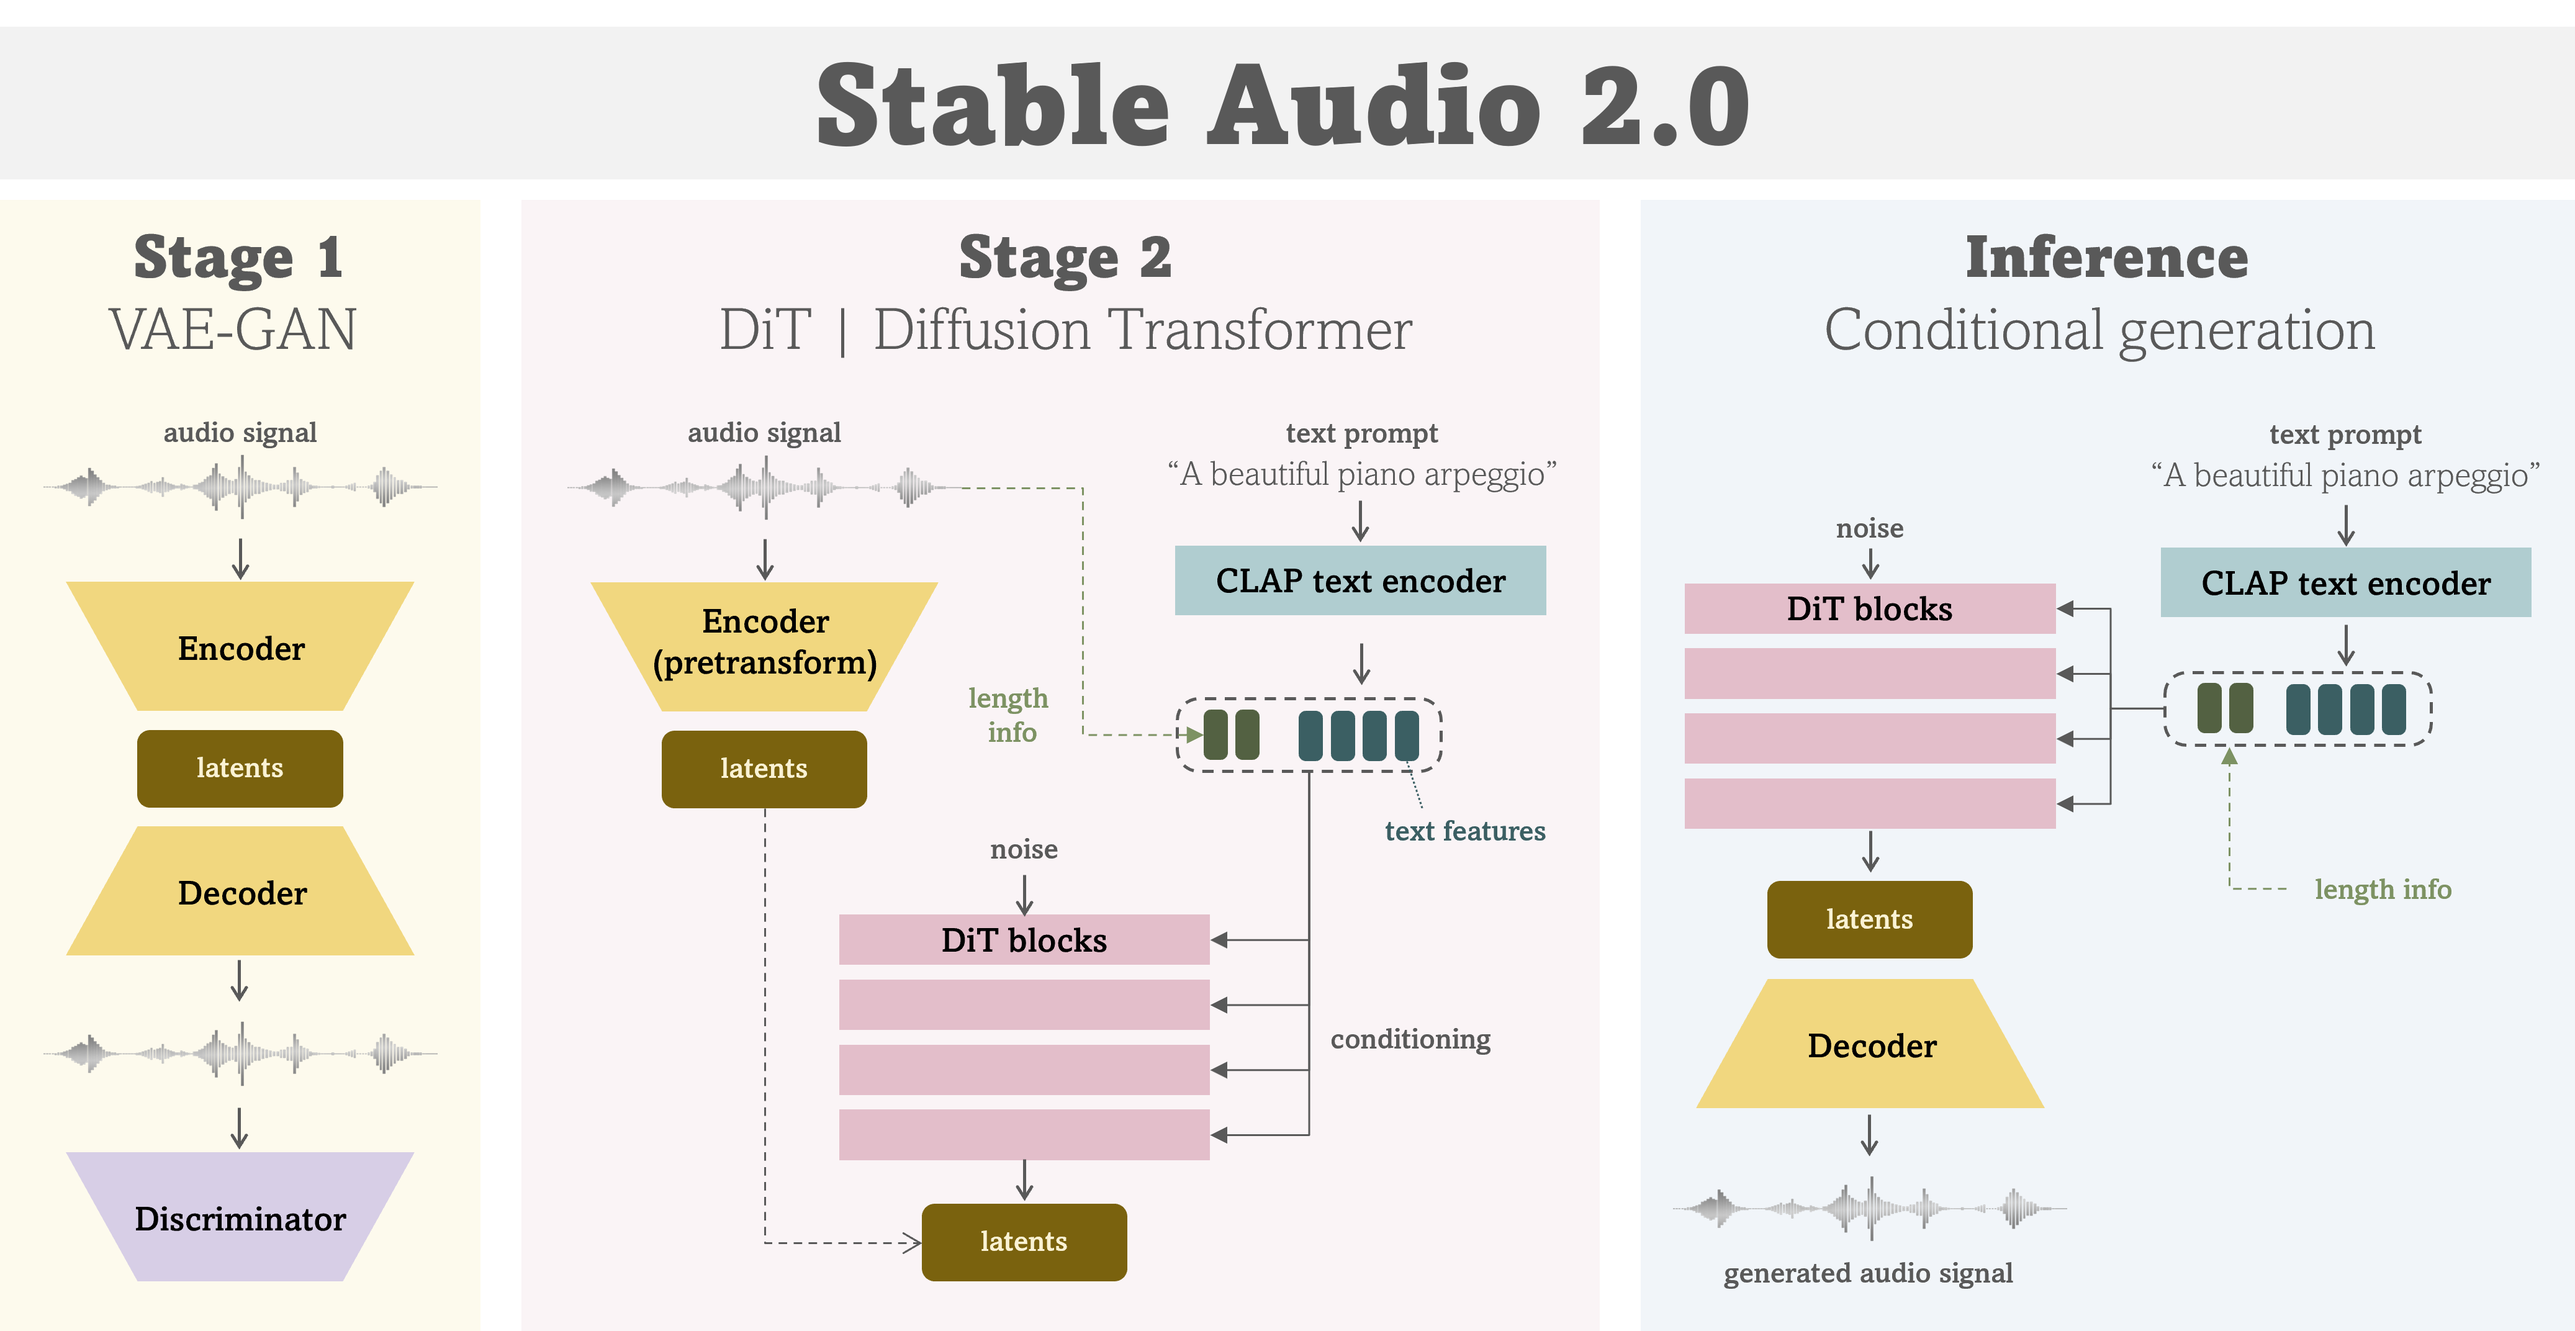
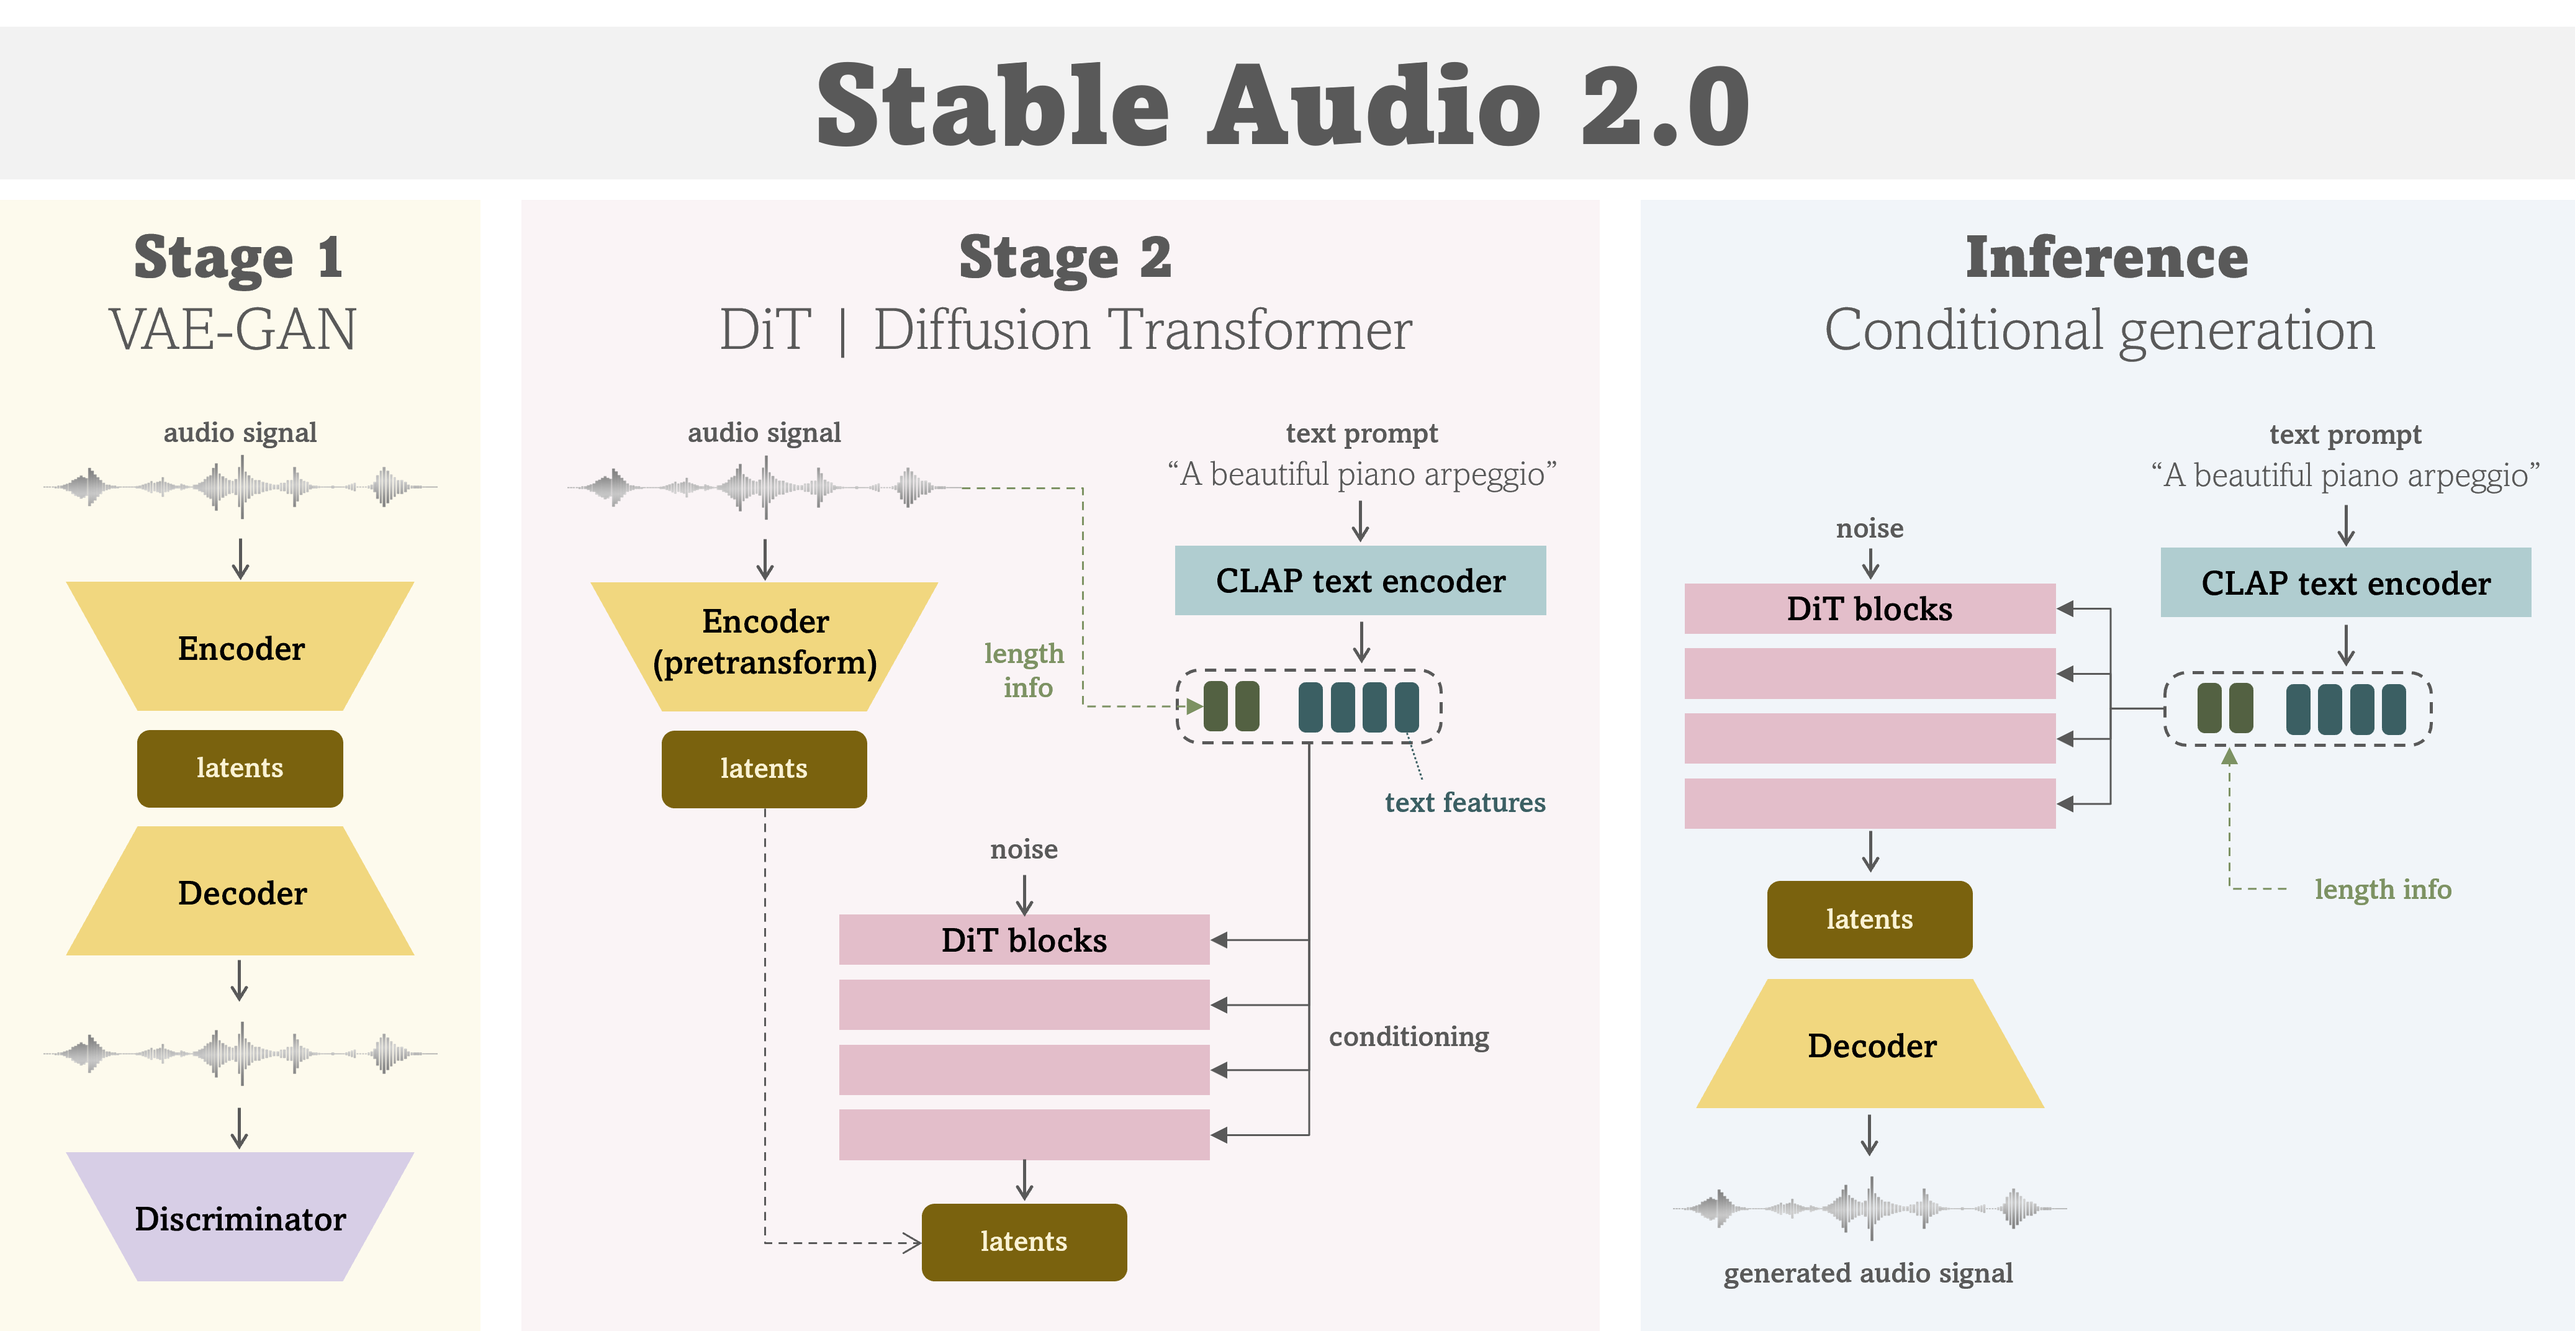
update docs

Changed region(s): [[0.4354, 0.5, 0.5909, 0.6562], [0.3732, 0.4688, 0.4043, 0.5625], [0.5287, 0.75, 0.5598, 0.8125]]

diff --git a/docs/diffusion.md b/docs/diffusion.md
@@ -1,0 +1,153 @@
+# Diffusion
+
+Diffusion models learn to denoise data
+
+# Model configs
+The model config file for a diffusion model should set the `model_type` to `diffusion_cond` if the model uses conditioning, or `diffusion_uncond` if it does not, and the `model` object should have the following properties:
+
+- `diffusion`
+    - The configuration for the diffusion model itself. See below for more information on the diffusion model config
+- `pretransform`
+    - The configuration of the diffusion model's [pretransform](pretransforms.md), such as an autoencoder for latent diffusion.
+    - Optional
+- `conditioning`
+    - The configuration of the various [conditioning](conditioning.md) modules for the diffusion model
+    - Only required for `diffusion_cond`
+- `io_channels`
+    - The base number of input/output channels for the diffusion model
+    - Used by inference scripts to determine the shape of the noise to generate for the diffusion model
+
+# Diffusion configs
+- `type`
+    - The underlying model type for the transformer
+    - For conditioned diffusion models, be one of `dit` ([Diffusion Transformer](#diffusion-transformers-dit)), `DAU1d` ([Dance Diffusion U-Net](#dance-diffusion-u-net)), or `adp_cfg_1d` ([audio-diffusion-pytorch U-Net](#audio-diffusion-pytorch-u-net-adp))
+    - Unconditioned diffusion models can also use `adp_1d`
+- `cross_attention_cond_ids`
+    - Conditioner ids for conditioning information to be used as cross-attention input
+    - If multiple ids are specified, the conditioning tensors will be concatenated along the sequence dimension
+- `global_cond_ids`
+    - Conditioner ids for conditioning information to be used as global conditioning input
+    - If multiple ids are specified, the conditioning tensors will be concatenated along the channel dimension
+- `prepend_cond_ids`
+    - Conditioner ids for conditioning information to be prepended to the model input
+    - If multiple ids are specified, the conditioning tensors will be concatenated along the sequence dimension
+    - Only works with diffusion transformer models
+- `input_concat_ids`
+    - Conditioner ids for conditioning information to be concatenated to the model input
+    - If multiple ids are specified, the conditioning tensors will be concatenated along the channel dimension
+    - If the conditioning tensors are not the same length as the model input, they will be interpolated along the sequence dimension to be the same length.
+        - The interpolation algorithm is model-dependent, but usually uses nearest-neighbor resampling.
+- `config`
+    - The configuration for the model backbone itself
+    - Model-dependent
+
+# Training configs
+The `training` config in the diffusion model config file should have the following properties:
+
+- `learning_rate`
+    - The learning rate to use during training
+    - Defaults to constant learning rate, can be overridden with `optimizer_configs`
+- `use_ema`
+    - If true, a copy of the model weights is maintained during training and updated as an exponential moving average of the trained model's weights. 
+    - Optional. Default: `true`
+- `log_loss_info`
+    - If true, additional diffusion loss info will be gathered across all GPUs and displayed during training
+    - Optional. Default: `false`
+- `loss_configs`
+    - Configurations for the loss function calculation
+    - Optional
+- `optimizer_configs`
+    - Configuration for optimizers and schedulers
+    - Optional, overrides `learning_rate`
+- `demo`
+    - Configuration for the demos during training, including conditioning information
+
+## Example config
+```json
+"training": {
+    "use_ema": true,
+    "log_loss_info": false,
+    "optimizer_configs": {
+        "diffusion": {
+            "optimizer": {
+                "type": "AdamW",
+                "config": {
+                    "lr": 5e-5,
+                    "betas": [0.9, 0.999],
+                    "weight_decay": 1e-3
+                }
+            },
+            "scheduler": {
+                "type": "InverseLR",
+                "config": {
+                    "inv_gamma": 1000000,
+                    "power": 0.5,
+                    "warmup": 0.99
+                }
+            }
+        }
+    },
+    "demo": { ... }
+}
+```
+
+# Demo configs
+The `demo` config in the diffusion model training config should have the following properties:
+- `demo_every`
+    - How many training steps between demos
+- `demo_steps`
+    - Number of diffusion timesteps to run for the demos
+- `num_demos`
+    - This is the number of examples to generate in each demo
+- `demo_cond`
+    - For conditioned diffusion models, this is the conditioning metadata to provide to each example, provided as a list
+    - NOTE: List must be the same length as `num_demos`
+- `demo_cfg_scales`
+    - For conditioned diffusion models, this provides a list of classifier-free guidance (CFG) scales to render during the demos. This can be helpful to get an idea of how the model responds to different conditioning strengths as training continues.
+
+## Example config
+```json
+"demo": {
+    "demo_every": 2000,
+    "demo_steps": 250,
+    "num_demos": 4,
+    "demo_cond": [
+        {"prompt": "A beautiful piano arpeggio", "seconds_start": 0, "seconds_total": 80},
+        {"prompt": "A tropical house track with upbeat melodies, a driving bassline, and cheery vibes", "seconds_start": 0, "seconds_total": 250},
+        {"prompt": "A cool 80s glam rock song with driving drums and distorted guitars", "seconds_start": 0, "seconds_total": 180},
+        {"prompt": "A grand orchestral arrangement", "seconds_start": 0, "seconds_total": 190}
+    ],
+    "demo_cfg_scales": [3, 6, 9]
+}
+```
+
+# Model types
+
+A variety of different model types can be used as the underlying backbone for a diffusion model. At the moment, this includes variants of U-Net and Transformer models.
+
+## Diffusion Transformers (DiT)
+
+Transformers tend to consistently outperform U-Nets in terms of model quality, but are much more memory- and compute-intensive and work best on shorter sequences such as latent encodings of audio.
+
+### Continuous Transformer
+
+This is our custom implementation of a transformer model, based on the `x-transformers` implementation, but with efficiency improvements such as fused QKV layers, and Flash Attention 2 support.
+
+### `x-transformers`
+
+This model type uses the `ContinuousTransformerWrapper` class from the https://github.com/lucidrains/x-transformers repository as the diffusion transformer backbone.
+
+`x-transformers` is a great baseline transformer implementation with lots of options for various experimental settings.
+It's great for testing out experimental features without implementing them yourself, but the implementations might not be fully optimized, and breaking changes may be introduced without much warning. 
+
+## Diffusion U-Net
+
+U-Nets use a hierarchical architecture to gradually downsample the input data before more heavy processing is performed, then upsample the data again, using skip connections to pass data across the downsampling "valley" (the "U" in the name) to the upsampling layer at the same resolution. 
+
+### audio-diffusion-pytorch U-Net (ADP)
+
+This model type uses a modified implementation of the `UNetCFG1D` class from version 0.0.94 of the `https://github.com/archinetai/audio-diffusion-pytorch` repo, with added Flash Attention support.
+
+### Dance Diffusion U-Net
+
+This is a reimplementation of the U-Net used in [Dance Diffusion](https://github.com/Harmonai-org/sample-generator). It has minimal conditioning support, only really supporting global conditioning. Mostly used for unconditional diffusion models.

diff --git a/README.md b/README.md
@@ -133,7 +133,7 @@ The model config file defines all of the information needed to load a model for 
 The following properties are defined in the top level of the model configuration:
 
 - `model_type`
-  - The type of model being defined, currently limited to one of `"autoencoder", "diffusion_uncond", "diffusion_cond", "diffusion_cond_inpaint", "diffusion_autoencoder"`.
+  - The type of model being defined, currently limited to one of `"autoencoder", "diffusion_uncond", "diffusion_cond", "diffusion_cond_inpaint", "diffusion_autoencoder", "lm"`.
 - `sample_size`
   - The length of the audio provided to the model during training, in samples. For diffusion models, this is also the raw audio sample length used for inference.
 - `sample_rate`
@@ -214,9 +214,9 @@ from the [LAION CLAP repository](https://github.com/LAION-AI/CLAP?tab=readme-ov-
 
 Since ***Stable Audio*** uses text prompts as condition for music generation, you have to prepare them as metadata in addition to audio data.
 
-When preparing a dataset in a local environment, I support the use of metadata in JSON format as follows.
+When using a dataset in a local environment, I support the use of metadata in JSON format as follows.
 
-1. You can include any information as metadata in a JSON file, but you must always include the text data called `prompt` required for training of Stable Audio.
+1. You can include any information as metadata in a JSON file, but you must always include the text data named `prompt` required for training of Stable Audio.
 
 = music_2.json =
 ```
@@ -237,13 +237,13 @@ When preparing a dataset in a local environment, I support the use of metadata i
     └── ...
 ```
 
-## Stage 1 : VAE (Compression model)
+## Stage 1 : VAE-GAN (compression model)
 
 ### Training
 
-As the 1st stage of Stable Audio 2.0, you'll train a VAE which is a compression model for audio signal.
+As the 1st stage of Stable Audio 2.0, you'll train a VAE-GAN which is a compression model for audio signal.
 
-The model config file for a VAE is place in the [configs](stable_audio_tools/configs/model_configs/autoencoders/) directory. Regarding dataset configuration, please prepare a dataset config file corresponding to your own datasets.
+The model config file for a VAE-GAN is place in the [configs](stable_audio_tools/configs/model_configs/autoencoders/) directory. Regarding dataset configuration, please prepare a dataset config file corresponding to your own datasets.
 
 Once you prepare configuration files, you can execute a training job like this:
 ```bash
@@ -369,7 +369,6 @@ singularity exec --nv --pwd $ROOT_DIR -B $ROOT_DIR -B $DATASET_DIR \
 
 # Todo
 - [ ] Add convenient scripts for sampling
-- [ ] Add documentation for different model types
 - [ ] Add documentation for Gradio interface
 - [ ] Add troubleshooting section
 - [ ] Add contribution guidelines

diff --git a/docs/datasets.md b/docs/datasets.md
@@ -45,7 +45,7 @@ To load audio files and related metadata from .tar files in the WebDataset forma
 # Custom metadata
 To customize the metadata provided to the conditioners during model training, you can provide a separate custom metadata module to the dataset config. This metadata module should be a Python file that must contain a function called `get_custom_metadata` that takes in two parameters, `info`, and `audio`, and returns a dictionary. 
 
-For local training, the `info` parameter will contain a few pieces of information about the loaded audio file, such as the path, and information about how the audio was cropped from the original training sample. For S3 WebDataset datasets, it will also contain the metadata from the related JSON files. 
+For local training, the `info` parameter will contain a few pieces of information about the loaded audio file, such as the path, and information about how the audio was cropped from the original training sample. For WebDataset datasets, it will also contain the metadata from the related JSON files. 
 
 The `audio` parameter contains the audio sample that will be passed to the model at training time. This lets you analyze the audio for extra properties that you can then pass in as extra conditioning signals.
 

diff --git a/docs/conditioning.md b/docs/conditioning.md
@@ -14,6 +14,13 @@ Global conditioning is the use of a single n-dimensional tensor to provide condi
 
 Signals used for global conditioning should be of the shape `[batch, channels]`.
 
+## Prepend conditioning
+Prepend conditioning involves prepending the conditioning tokens to the data tokens in the model, allowing for the information to be interpreted through the model's self-attention mechanism.
+
+This kind of conditioning is currently only supported by Transformer-based models such as diffusion transformers.
+
+Signals used for prepend conditioning should be of the shape `[batch, sequence, channels]`.
+
 ## Input concatenation
 Input concatenation applies a spatial conditioning signal to the model that correlates in the sequence dimension with the model's input, and is of the same length. The conditioning signal will be concatenated with the model's input data along the channel dimension. This can be used for things like inpainting information, melody conditioning, or for creating a diffusion autoencoder.
 

diff --git a/docs/autoencoders.md b/docs/autoencoders.md
@@ -39,7 +39,7 @@ The model config file for an autoencoder should set the `model_type` to `autoenc
 # Training configs
 The `training` config in the autoencoder model config file should have the following properties:
 - `learning_rate`
-    - The learning rate to use during training, fixed learning rate is currently the only option
+    - The learning rate to use during training
 - `use_ema`
     - If true, a copy of the model weights is maintained during training and updated as an exponential moving average of the trained model's weights. 
     - Optional. Default: `false`
@@ -51,6 +51,9 @@ The `training` config in the autoencoder model config file should have the follo
     - Optional. Default: `false`
 - `loss_configs`
     - Configurations for the loss function calculation
+    - Optional
+- `optimizer_configs`
+    - Configuration for optimizers and schedulers
     - Optional
 
 ## Loss configs
